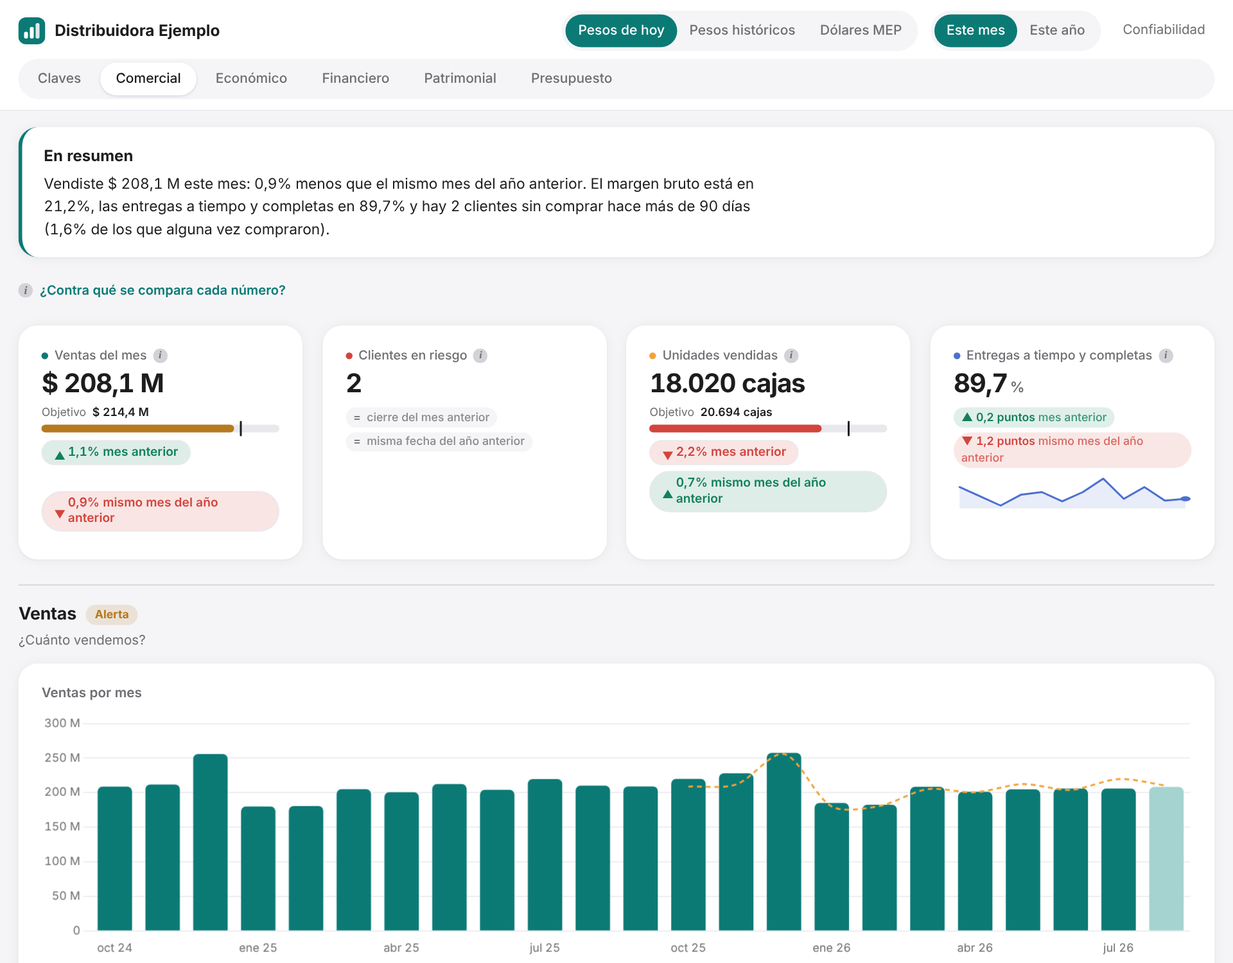
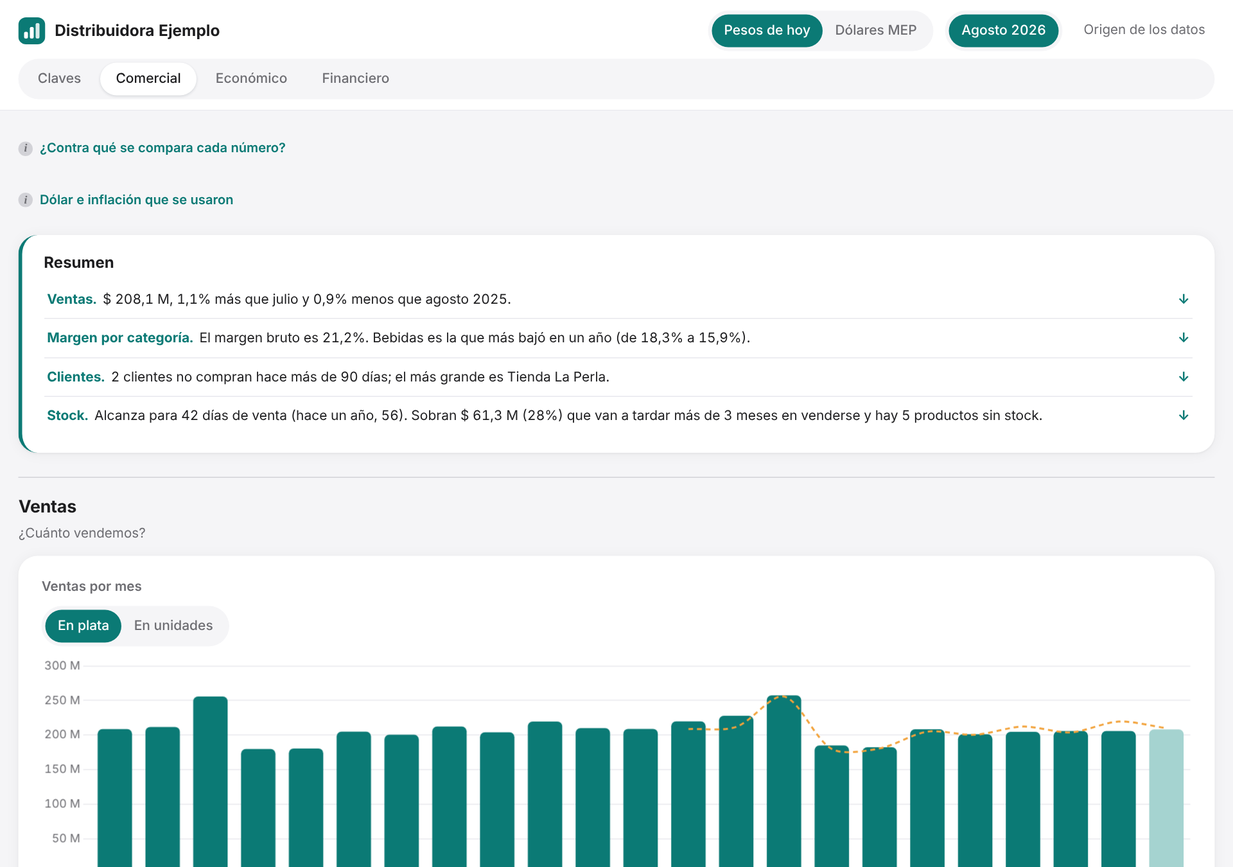
Documentación actualizada al tablero final: README, indicadores, capturas y arquitectura
Claude-Session: https://claude.ai/code/session_01BerP5tpH3fTpPqyTaaGzu5

diff --git a/tablero/index.html b/tablero/index.html
@@ -1333,7 +1333,7 @@ function tabEconomico(){
      <div class="eqB-lg"><span><i style="background:var(--c4)"></i>Consume caja</span><span><i style="background:var(--warn)"></i>Pérdida, pero se pagan los gastos</span><span><i style="background:var(--c1)"></i>Ganancia</span></div>
      <div class="eqB-c">Mes a mes: lo que se vendió contra el mínimo</div>${cv('c-eq','lg')}</div>`;
   })();
-  const qTr2=`En ${mNom(S.m[n-1])}, el margen bruto fue ${nf(mgS[n-1],1)}% (el mismo mes del año anterior, ${nf(mgS[n-13],1)}%) el margen operativo, ${nf(opS[n-1],1)}% (antes, ${nf(opS[n-13],1)}%) y el margen neto, ${nf(100*E.r[n-1]/S.v[n-1],1)}% (antes, ${nf(100*E.r[n-13]/S.v[n-13],1)}%).`;
+  const qTr2=`En ${mNom(S.m[n-1])}, el margen bruto fue ${nf(mgS[n-1],1)}% (el mismo mes del año anterior, ${nf(mgS[n-13],1)}%), el margen operativo, ${nf(opS[n-1],1)}% (antes, ${nf(opS[n-13],1)}%) y el margen neto, ${nf(100*E.r[n-1]/S.v[n-1],1)}% (antes, ${nf(100*E.r[n-13]/S.v[n-13],1)}%).`;
   if(!state.erm) state.erm={n:6,u:'m',open:{}};  if(!state.erm.open) state.erm.open={};
   const ERMS=state.erm, sOpG=sGop.map((x,i)=>x==null?null:x+E.a[i]), sAI=rest(sOpe,E.gf);
   const kidsC=S.cc.map(x=>[x[0],x[1]]).sort((a,b)=>b[1].reduce((q,y)=>q+(y||0),0)-a[1].reduce((q,y)=>q+(y||0),0)), kidsF=[['Intereses del préstamo',E.gf]];

diff --git a/docs/indicadores.md b/docs/indicadores.md
@@ -1,46 +1,65 @@
 # Catálogo de indicadores
 
-El tablero está pensado para el dueño de una distribuidora mayorista de consumo masivo. Es un negocio de **margen bajo y mucho volumen**: compra mercadería, la tiene en el depósito, la vende con plazo y recién después cobra. Por eso la mayoría de los indicadores no miran solo cuánto se gana, sino **cuánta plata queda atrapada en el camino** (stock y cuentas por cobrar) y si la caja alcanza para sostenerlo.
+El tablero está pensado para el dueño de una distribuidora mayorista de consumo masivo. Es un negocio de **margen bajo y mucho volumen**: compra mercadería, la tiene en el depósito, la vende con plazo y recién después cobra. Por eso los indicadores no miran solo cuánto se gana, sino también **cuánta plata queda atrapada en el camino** (stock y lo que deben los clientes) y si la caja alcanza para pagar.
 
-Cada indicador responde una pregunta concreta del dueño. Todos salen de las vistas del esquema `kpi` del warehouse; ninguno se calcula en el tablero.
+Cada indicador responde una pregunta concreta del dueño. Salen de las vistas del esquema `kpi` y del modelo `marts` del warehouse.
 
-## Los 8 indicadores clave (pestaña Claves)
+## Período y comparaciones
 
-Son los que el dueño debería mirar todos los meses. Cada uno tiene una meta, un estado (en orden, alerta o crítico), la causa principal del resultado y una acción sugerida.
+- **Período:** el tablero muestra agosto de 2026.
+- **Números del mes** (ventas, márgenes, ganancia, entregas): se comparan con julio de 2026 y con agosto de 2025.
+- **Saldos** (caja, lo que deben los clientes, stock, proveedores): son al 31/08/2026 y se comparan con el 31/07/2026 y con el 31/08/2025.
+- **Cómo se expresa el cambio:** los indicadores en pesos cambian en %, los que ya son porcentajes en puntos y los de días en días.
+- **Colores:** verde es bueno para el negocio y rojo es malo. Por ejemplo, que bajen los días de cobro es verde.
 
-| Indicador | Pregunta del dueño | Fórmula | Meta y de dónde sale | Por qué importa en una distribuidora |
-| --- | --- | --- | --- | --- |
-| Ventas | ¿Vendo lo que esperaba? | Facturado en el período, sin IVA | Presupuesto 2026 (Excel) | Con margen bajo, el volumen es lo que paga la estructura. |
-| Margen bruto | ¿Gano lo suficiente por cada venta? | (Ventas − costo de la mercadería) ÷ ventas | 22%, el margen del presupuesto 2026 | Un punto de margen en una distribuidora es una parte grande de la ganancia final. |
-| Ganancia final | ¿Estoy ganando plata? | Ventas − costo − gastos − amortizaciones − intereses − impuestos | Presupuesto 2026 (Excel) | Es el resultado de todo lo anterior. |
-| Días de caja | ¿Cuántos días aguanto sin cobrar nada? | Caja y bancos ÷ salidas promedio por día (últimos 90 días) | Más de 30 días | Si los clientes se atrasan, la caja es lo único que sostiene los pagos a proveedores y sueldos. |
-| Deuda vencida de clientes | ¿Me pagan a tiempo? | Saldo vencido ÷ saldo a cobrar | Menos de 25% | Vender con plazo es financiar al cliente; lo vencido es financiamiento que no se pactó. |
-| Días de stock | ¿Tengo plata parada en el depósito? | Stock promedio del mes ÷ costo de lo vendido en el mes × días del mes | Menos de 45 días | El stock es plata inmovilizada y riesgo de vencimiento o de obsolescencia. |
-| Clientes en riesgo | ¿Estoy perdiendo clientes? | Clientes sin comprar hace más de 90 días ÷ clientes con historial | Menos de 20% | Recuperar un cliente que se fue cuesta más que retenerlo. |
-| Entregas a tiempo y completas (OTIF) | ¿Cumplo con lo que prometo? | Pedidos entregados en fecha y completos ÷ pedidos | 90% | En distribución, la entrega es el servicio; fallar se paga con clientes que se van. |
+## Moneda
 
-## Indicadores por pestaña
+- **Pesos de hoy** (vista por defecto): cada monto de un mes se multiplica por el IPC nacional del INDEC (nivel general) de agosto de 2026 dividido el IPC de ese mes. Es un análisis de gestión y no reemplaza el ajuste por inflación contable (RT 6).
+- **Dólares MEP:** cada monto de un mes se divide por el dólar MEP (venta) del último día hábil de ese mes. Una variación en dólares mezcla lo que pasó con el negocio y lo que pasó con el tipo de cambio.
 
-| Pestaña | Indicador | Fórmula | Para qué sirve |
+Los porcentajes, los días y las unidades dan igual en las dos monedas. El tablero muestra la tabla de inflación y de dólar MEP usada mes por mes.
+
+## Claves: los 7 indicadores del mes
+
+| Indicador | Pregunta del dueño | Cómo se calcula | Por qué importa en una distribuidora |
 | --- | --- | --- | --- |
-| Comercial | Margen por categoría | Margen bruto de cada familia de productos | Ver qué categoría arrastra el margen total hacia abajo. |
-| Comercial | Unidades vendidas | Cajas vendidas | Separar si las ventas suben por precio o por volumen. |
-| Económico | Margen operativo, EBITDA, margen neto | Márgenes del estado de resultados | Ver dónde se va la ganancia: estructura, intereses o impuestos. |
-| Económico | Punto de equilibrio | Costos fijos ÷ contribución por peso vendido | Cuánto pueden caer las ventas antes de perder plata. |
-| Económico | Carga tributaria sobre ventas | Ingresos Brutos, débitos y créditos, seguridad e higiene y Ganancias ÷ ventas | Dimensionar el peso de los impuestos en un negocio de margen bajo. |
-| Financiero | Caja generada por el negocio | Cobranzas − pagos a proveedores − gastos e impuestos pagados | Si el negocio genera plata antes de cuotas del préstamo y retiros. |
-| Financiero | Ciclo de la plata | Días de stock + días de cobro − días de pago | Cuántos días está la plata afuera entre que se paga la mercadería y se cobra la venta. |
-| Financiero | Caja de las próximas semanas | Saldo de hoy + cobros que vencen − pagos que vencen, semana por semana | Anticipar en qué semana puede faltar plata, con fechas reales de sueldos, impuestos y cuotas. |
-| Financiero | Antigüedad de la deuda | Lo que te debe cada cliente, por tramo de atraso | Decidir a quién reclamar primero (ordenable por monto, antigüedad o ambos). |
-| Patrimonial | Deuda por cada peso propio | Pasivo ÷ patrimonio | Cuánto depende la empresa de la plata de terceros. |
-| Patrimonial | Liquidez | Activo corriente ÷ pasivo corriente | Si lo que vence en el corto plazo se puede pagar. |
-| Patrimonial | Capital de trabajo operativo | Lo que te deben + stock − proveedores | Cuánta plata necesita el negocio para funcionar. |
-| Patrimonial | Retiros sobre ganancia | Retiros de los socios ÷ ganancia de los últimos 12 meses | Si los socios retiran más de lo que el negocio gana. |
-| Presupuesto | Real contra presupuesto | Ventas, gastos y ganancia del período ÷ lo presupuestado | Si el año se está cumpliendo como se planeó. |
+| Ventas | ¿Cuánto vendí? | Facturado en el mes, sin IVA | Con margen bajo, el volumen es lo que paga la estructura. |
+| Margen bruto | ¿Cuánto me queda de cada venta? | (Ventas − costo de la mercadería vendida) ÷ ventas | Un punto de margen es una parte grande de la ganancia final. |
+| Ganancia final | ¿Estoy ganando plata? | Ventas − costo − gastos − amortizaciones − intereses − impuestos | Es el resultado de todo lo anterior. |
+| Entregas en tiempo y forma | ¿Cumplo con lo que prometo? | Pedidos despachados a tiempo y completos ÷ pedidos despachados | En distribución, la entrega es el servicio. Fallar se paga con clientes que se van. |
+| Facturas vencidas sin cobrar | ¿Me pagan a tiempo? | Saldo a cobrar ya vencido ÷ saldo total a cobrar | Vender con plazo es financiar al cliente; lo vencido es financiamiento que no se pactó. |
+| Caja y bancos hoy | ¿Cuánta plata tengo? | Saldo de las cuentas de caja y bancos del mayor al 31/08/2026 | Es lo que sostiene los pagos si los clientes se atrasan. |
+| A pagar a proveedores en 30 días | ¿Cuánto tengo que pagar en el próximo mes? | Facturas de proveedores que vencen hasta el 30/09/2026, más las ya vencidas sin pagar | Comparado con la caja, muestra si alcanza la plata para cumplir. |
 
-## Criterios comunes
+## Comercial
 
-- **Pesos de hoy, pesos históricos y dólares.** Con inflación, comparar pesos de distintos meses engaña. La vista principal reexpresa cada mes a pesos de agosto de 2026 con el IPC del INDEC. La vista histórica sirve para conciliar con el banco y los impuestos, y la de dólares usa el MEP del último día hábil de cada mes.
-- **Comparaciones.** Cada número se compara con el mes anterior y con el mismo mes del año anterior. Los indicadores que ya son porcentajes se comparan en puntos, los de días en días y la caja generada en pesos.
-- **Metas.** Ventas, ganancia y margen salen del presupuesto 2026 en Excel. El resto son parámetros del negocio guardados en `kpi.parametros`, con su descripción.
-- **Estados.** Un indicador está en orden si cumple la meta, en alerta si queda a menos de 10% de cumplirla y en crítico si queda más lejos.
+| Indicador | Cómo se calcula | Para qué sirve |
+| --- | --- | --- |
+| Ventas por mes | Ventas de cada mes, en plata o en unidades (cajas), con el mismo mes del año anterior | Ver la estacionalidad y separar si las ventas suben por precio o por volumen. |
+| Ventas, unidades y margen por categoría | Ventas, cajas vendidas y margen bruto de cada categoría de artículo, con el margen del mes anterior y del mismo mes del año anterior, y una fila de total | Ver qué categoría arrastra el margen total hacia abajo. |
+| Clientes que dejaron de comprar | Clientes que no compran hace más de 90 días, con lo que compraban por año | Saber a quién llamar antes de que se acostumbre a otro proveedor. |
+| Días de stock, mes a mes | Stock promedio del mes ÷ costo de lo vendido por día | Ver si la mercadería parada viene creciendo o bajando. |
+| Mercadería que sobra | Por producto: el stock que excede 90 días de venta (todo el stock si no se vendió en 90 días), valuado al costo | Saber cuánta plata está parada en el depósito y en qué productos. El tablero trae un ejemplo paso a paso. |
+| Lo que falta o se está por terminar | Productos sin stock que se vendieron en el mes, y los más vendidos con stock para menos de 15 días | Evitar perder ventas por falta de mercadería. |
+
+## Económico
+
+| Indicador | Cómo se calcula | Para qué sirve |
+| --- | --- | --- |
+| Márgenes bruto, operativo y neto, mes a mes | Utilidad bruta, operativa y neta ÷ ventas, de los últimos 12 meses | Ver dónde se va la ganancia: mercadería, estructura, intereses o impuestos. |
+| Punto de equilibrio | Costos fijos ÷ (1 − costos variables ÷ ventas) | Cuánto hay que vender para no perder plata y cuánto pueden caer las ventas antes de perder. |
+| Estado de resultados mes a mes | Ventas − costo de ventas = utilidad bruta; − gastos operativos = utilidad operativa; − gastos financieros = utilidad antes de impuestos; − impuestos = utilidad neta | Ver la evolución de cada renglón, en millones o en % de las ventas, y abrir el detalle por cuenta. |
+
+## Financiero
+
+| Indicador | Cómo se calcula | Para qué sirve |
+| --- | --- | --- |
+| Ciclo de la plata | Días de stock + días de cobro − días de pago | Cuántos días pasan desde que le pagás al proveedor hasta que te paga el cliente. Menos días es menos caja necesaria. |
+| Días de cobro | Saldo a cobrar promedio ÷ ventas con IVA × días | Cuánto tardan los clientes en pagar. |
+| Días de pago | Saldo a pagar promedio ÷ compras con IVA × días | Cuánto tardás en pagar a los proveedores. |
+| Detalle de clientes | Lo vencido de cada cliente, con sus días de atraso y su plazo | Decidir a quién reclamar primero (por monto, por antigüedad o por las dos cosas). |
+| Detalle de proveedores | Lo que vence con cada proveedor en los próximos 30 días, factura por factura | Decidir a quién pagar primero. |
+
+## Criterio para los textos
+
+Cada gráfico tiene debajo un texto **"Qué pasó"** que se arma con los datos (no está escrito a mano) y explica el resultado en palabras simples. Cada pestaña empieza con un **resumen** de una línea por gráfico.

diff --git a/README.md b/README.md
@@ -1,53 +1,85 @@
 # BI para una distribuidora pyme: del ERP al tablero
 
-Proyecto de Business Intelligence de punta a punta para el dueño de una distribuidora mayorista de consumo masivo. Va desde un ERP con 23 meses de operación hasta un tablero que responde las preguntas que el dueño se hace todos los meses, pasando por un data warehouse en capas, un modelo dimensional y una auditoría de calidad de datos.
+Proyecto de Business Intelligence de punta a punta para el dueño de una distribuidora mayorista de consumo masivo. Arranca en un ERP con 23 meses de operación y termina en un tablero que responde las preguntas que el dueño se hace todos los meses. En el medio hay un data warehouse en capas, un modelo dimensional y una auditoría de calidad de datos.
 
-**[Ver el tablero](https://claude.ai/artifact/UZ83beL8ZhC7Tk1EoA757A)** · **[Leer la documentación completa](https://claude.ai/code/artifact/686288c4-9ac2-47b0-87d4-9f3e2d46c97b)**
+**[Ver el tablero](https://claude.ai/artifact/UZ83beL8ZhC7Tk1EoA757A)**
 
 ![Pestaña Claves del tablero](docs/capturas/1_claves.png)
 
 ## El problema
 
-El dueño de una pyme distribuidora tiene los datos en el ERP, pero no las respuestas: ¿vendo lo que esperaba?, ¿gano lo suficiente por cada venta?, ¿me alcanza la plata?, ¿quién me debe y desde cuándo? Es un negocio de margen bajo y mucho volumen, donde la plata queda atrapada en el stock y en las cuentas de los clientes. Por eso el tablero no mira solo la ganancia: también mira la caja, los plazos y la calidad de la cartera.
+El dueño de una pyme distribuidora tiene los datos en el ERP, pero no las respuestas: ¿cuánto vendí?, ¿cuánto me queda de cada venta?, ¿me alcanza la plata?, ¿quién me debe y desde cuándo?, ¿qué mercadería me sobra y cuál me falta? Es un negocio de margen bajo y mucho volumen, donde la plata queda atrapada en el stock y en lo que deben los clientes. Por eso el tablero no mira solo la ganancia: también mira la caja, los plazos y el stock.
 
 ## Qué hice
 
 | Etapa | Qué incluye | Herramientas |
 | --- | --- | --- |
-| ERP | webERP en Docker con 23 meses de operación simulada: 88.540 líneas de venta, 123 clientes, 1.460 productos y 15 proveedores, con contabilidad por partida doble | MariaDB, Docker, Python |
+| ERP | webERP en Docker con 23 meses de operación simulada (octubre 2024 a agosto 2026): 88.540 líneas de venta, 123 clientes, 1.460 productos y 15 proveedores, con contabilidad por partida doble | MariaDB, Docker, Python |
 | Extracción y carga | Las 145 tablas del ERP, el presupuesto 2026 en Excel y la inflación (INDEC) y el dólar MEP desde APIs públicas | Python, pandas, SQLAlchemy |
 | Data warehouse | Capas `raw` → `staging` → `marts` → `kpi`, con un modelo dimensional de 13 hechos y 8 dimensiones | PostgreSQL (Supabase) |
-| Calidad de datos | 63 controles en cuatro ejes (aprovechamiento, cobertura, frescura y veracidad) y un aviso de qué tan confiable es cada dato | SQL |
-| Tablero | Seis pestañas pensadas para el dueño, en pesos de hoy, pesos históricos o dólares MEP | HTML, JavaScript, Chart.js |
+| Calidad de datos | 63 controles en cuatro ejes (aprovechamiento, cobertura, frescura y veracidad) que avisan qué tan confiable es cada dato | SQL |
+| Tablero | Cuatro pestañas para el dueño, con el mes de agosto 2026, en pesos de hoy o en dólares MEP | HTML, JavaScript, Chart.js |
 
 ![Arquitectura: ERP, warehouse en capas y tablero](docs/arquitectura.png)
 
-## Documentación
+## El tablero
 
-- **[Modelo de datos](docs/modelo_datos.md):** el modelo estrella completo, con todas las tablas, columnas y relaciones, qué representa cada fila y las decisiones de modelado.
-- **[Indicadores](docs/indicadores.md):** qué pregunta del dueño responde cada indicador, su fórmula, su meta y por qué importa en una distribuidora.
-- **[Calidad de datos](docs/calidad_de_datos.md):** cómo se revisa cada carga antes de publicar, con ejemplos.
+Muestra **agosto de 2026** y lo compara con **julio de 2026** (el mes anterior) y con **agosto de 2025** (el mismo mes del año anterior). Los saldos son al 31/08/2026.
 
-## Lo que distingue al proyecto
+Se puede ver en dos monedas:
 
-- **Indicadores con criterio de negocio.** Cada indicador responde una pregunta concreta y trae meta, estado, causa y una acción sugerida.
-- **Los números cierran contra la contabilidad.** Cada cifra se calcula por al menos dos caminos (módulo comercial, ERP y libro mayor) y se comparan en cada carga.
-- **Inflación tratada en serio.** Todo se puede ver en pesos de hoy (reexpresado con el IPC del INDEC), en pesos históricos o en dólares MEP.
-- **Seguro por diseño.** La base no tiene acceso público y el tablero es una página estática sin credenciales.
+- **Pesos de hoy** (la vista por defecto): cada mes se lleva a pesos de agosto de 2026 con el IPC del INDEC, así las comparaciones muestran el crecimiento real.
+- **Dólares MEP**: cada mes se divide por el dólar MEP del último día hábil de ese mes.
 
-## Las seis pestañas
+Arriba de cada pestaña hay un desplegable con la tabla de inflación y de dólar MEP usada mes por mes.
+
+### Las cuatro pestañas
+
+| Pestaña | Qué responde | Qué muestra |
+| --- | --- | --- |
+| **Claves** | ¿Cómo estoy este mes? | 7 tarjetas: ventas, margen bruto, ganancia final, entregas en tiempo y forma, facturas vencidas sin cobrar, caja y bancos hoy, y lo que hay que pagar a proveedores en 30 días. Cada una lleva a la pestaña donde está el detalle. |
+| **Comercial** | ¿Cuánto vendo, qué deja cada categoría y cómo está el stock? | Ventas por mes (en plata o en unidades), ventas, unidades y margen por categoría, clientes que dejaron de comprar, y stock: días de stock mes a mes, mercadería que sobra (con un ejemplo de cómo se calcula) y productos que faltan o se están por terminar. |
+| **Económico** | ¿Cuánto gano y dónde se va la ganancia? | Márgenes bruto, operativo y neto mes a mes, punto de equilibrio y estado de resultados mes a mes (3, 6, 9, 12 meses o todos), con el detalle de cada renglón. |
+| **Financiero** | ¿Cuántos días está mi plata afuera? ¿A quién le cobro y a quién le pago primero? | Ciclo de la plata en una línea de tiempo (días de stock + días de cobro − días de pago), y el detalle de lo vencido de cada cliente y de lo que vence con cada proveedor. |
+
+Comercial, Económico y Financiero empiezan con un **resumen**: una línea por cada gráfico de la pestaña. Al tocar una línea, la página baja a ese gráfico. Debajo de cada gráfico, un texto **"Qué pasó"** explica el resultado.
+
+**Origen de los datos** (arriba a la derecha) explica cada indicador: su definición y las tablas del warehouse de las que sale.
 
 | | |
 | --- | --- |
-| **Claves**: ¿qué pasó y qué miro primero? ![](docs/capturas/1_claves.png) | **Comercial**: ¿cuánto vendo y qué margen deja cada categoría? ![](docs/capturas/2_comercial.png) |
-| **Económico**: ¿cuánto gano y dónde se va la ganancia? ![](docs/capturas/3_economico.png) | **Financiero**: ¿me alcanza la plata? ¿a quién le cobro primero? ![](docs/capturas/4_financiero.png) |
-| **Patrimonial**: ¿qué tengo y qué debo? ![](docs/capturas/5_patrimonial.png) | **Presupuesto**: ¿cumplo lo que planeé? ![](docs/capturas/6_presupuesto.png) |
+| **Comercial** ![](docs/capturas/2_comercial.png) | **Económico** ![](docs/capturas/3_economico.png) |
+| **Financiero** ![](docs/capturas/4_financiero.png) | |
 
-El tablero completo está en [tablero/index.html](tablero/index.html): se descarga y se abre con doble clic.
+El tablero completo es un solo archivo: [tablero/index.html](tablero/index.html). Se descarga y se abre con doble clic (necesita internet para cargar la librería de gráficos).
+
+## Documentación
+
+- **[Indicadores](docs/indicadores.md):** qué pregunta responde cada indicador del tablero, cómo se calcula y por qué importa en una distribuidora.
+- **[Modelo de datos](docs/modelo_datos.md):** el modelo estrella completo, con todas las tablas, columnas y relaciones, qué representa cada fila y las decisiones de modelado.
+- **[Calidad de datos](docs/calidad_de_datos.md):** cómo se revisa cada carga antes de usar los datos, con ejemplos.
+
+## Lo que distingue al proyecto
+
+- **Indicadores con criterio de negocio.** Cada indicador responde una pregunta concreta del dueño, se compara contra el mes anterior y contra el año anterior, y viene con una explicación en palabras simples.
+- **Los números cierran contra la contabilidad.** Las ventas, el costo, los saldos y el stock se calculan por más de un camino (módulo comercial y libro mayor) y se comparan en cada carga.
+- **Inflación tratada en serio.** Todo se ve en pesos de hoy, reexpresado con el IPC del INDEC, o en dólares MEP, y el tablero muestra los índices usados.
+- **Seguro por diseño.** La base no tiene acceso público y el tablero es una página estática, sin credenciales ni conexión a la base.
+
+## Estructura del repositorio
+
+```
+tablero/index.html     el tablero (un solo archivo, con los datos incluidos)
+docs/indicadores.md    catálogo de indicadores
+docs/modelo_datos.md   modelo dimensional del warehouse
+docs/calidad_de_datos.md  auditoría de calidad de datos
+docs/*.png, *.svg      arquitectura y diagramas del modelo
+docs/capturas/         capturas del tablero
+```
 
 ## Datos
 
-Las ventas, costos y saldos de la distribuidora son **simulados**: el negocio, sus clientes y sus productos son ficticios. La inflación y el dólar MEP son datos reales. El escenario sirve para mostrar cómo funciona el modelo y el tablero, no para sacar conclusiones de un negocio real.
+Las ventas, costos y saldos de la distribuidora son **simulados**: el negocio, sus clientes y sus productos son ficticios. La inflación y el dólar MEP son datos reales. El escenario sirve para mostrar cómo funcionan el modelo y el tablero, no para sacar conclusiones de un negocio real.
 
 ## Autor
 

diff --git a/docs/modelo_datos.md b/docs/modelo_datos.md
@@ -92,7 +92,7 @@ Qué dimensiones usa cada hecho. Es la forma rápida de ver qué preguntas se pu
 - **El margen se calcula una sola vez.** Vive en `fact_ventas`, y todas las vistas usan ese mismo número.
 - **Saldos calculados desde los movimientos.** El stock y lo que debe cada cliente se calculan sumando movimientos, no copiando el saldo que guarda el ERP. Después se controla que los dos coincidan.
 - **El libro mayor como referencia.** Cada cifra comercial se puede comparar contra su cuenta contable: ventas contra Ventas, lo que te deben contra Deudores por ventas, el stock contra Mercaderías.
-- **La lógica de negocio en una sola capa.** Encima del modelo, la capa `kpi` tiene una vista por indicador, con su meta, su estado y su comparación. El tablero no calcula nada, solo lee esas vistas: si cambia una definición, se cambia en un solo lugar.
+- **La lógica de negocio en una sola capa.** Encima del modelo, la capa `kpi` tiene una vista por indicador, con su comparación contra el mes anterior y el año anterior. El tablero toma sus números de esas vistas: si cambia una definición, se cambia en un solo lugar. Algunos cortes puntuales del tablero (unidades y margen por categoría del mes anterior, productos que faltan y el ejemplo de stock) se consultaron directo sobre `marts` con los mismos criterios.
 
 ## Las capas del warehouse
 

diff --git a/docs/calidad_de_datos.md b/docs/calidad_de_datos.md
@@ -2,6 +2,8 @@
 
 Antes de interpretar un número hay que saber cuánto vale el dato que lo sostiene. Cada vez que se cargan datos, el warehouse corre una **auditoría de 63 controles automáticos** y **da aviso** de qué parte del dato es confiable y qué hay que mirar con cuidado.
 
+Esta auditoría vive en el warehouse (esquema `audit`). En el tablero, la sección **Origen de los datos** muestra de qué tablas sale cada indicador.
+
 **Resultado de la última auditoría: apto para interpretar los indicadores, con salvedades.**
 
 ## Sobre qué datos se hace
@@ -44,5 +46,5 @@ Si un eje queda en Crítico (25 puntos o menos), avisa que los indicadores que d
 
 - **La carga llegó 29 días después del último movimiento.** Alcanza para el análisis mensual, no para decidir la cobranza del día.
 - **Se usa un solo depósito de los cuatro.** No es un error.
-- **El ERP no registra recepciones, conciliación bancaria ni presupuesto.** El presupuesto viene de un Excel aparte.
+- **El ERP no registra recepciones, conciliación bancaria ni presupuesto.** El presupuesto 2026 se carga desde un Excel aparte (el tablero no lo muestra).
 - **286 artículos activos no se vendieron en el último año.** Conviene depurar el catálogo.
